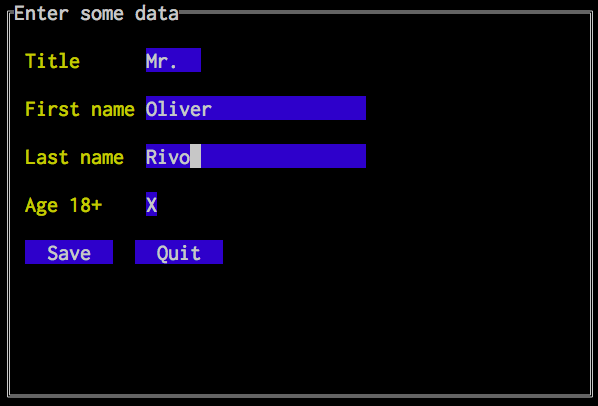
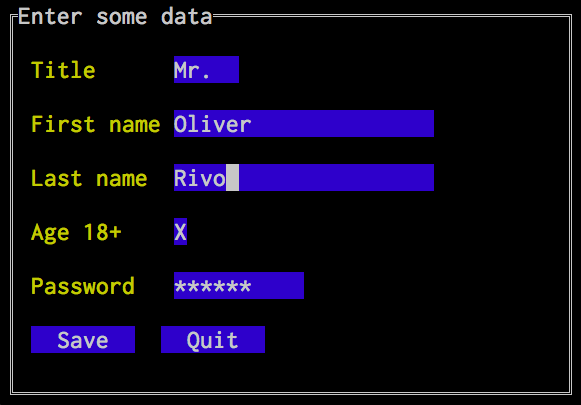
Added masking to InputField, password field to form. Resolves #7, resolves #8.

Changed region(s): [[0.0, 0.0, 1.0, 1.0], [0.2788, 0.8, 0.4647, 0.8889], [0.2169, 0.1185, 0.4337, 0.2074]]

diff --git a/inputfield.go b/inputfield.go
@@ -3,6 +3,8 @@ package tview
 import (
 	"math"
 	"regexp"
+	"strings"
+	"unicode/utf8"
 
 	"github.com/gdamore/tcell"
 	runewidth "github.com/mattn/go-runewidth"
@@ -10,6 +12,9 @@ import (
 
 // InputField is a one-line box (three lines if there is a title) where the
 // user can enter text.
+//
+// Use SetMaskCharacter() to hide input from onlookers (e.g. for password
+// input).
 //
 // See https://github.com/rivo/tview/wiki/InputField for an example.
 type InputField struct {
@@ -33,6 +38,10 @@ type InputField struct {
 	// The length of the input area. A value of 0 means extend as much as
 	// possible.
 	fieldLength int
+
+	// A character to mask entered text (useful for password fields). A value of 0
+	// disables masking.
+	maskCharacter rune
 
 	// An optional function which may reject the last character that was entered.
 	accept func(text string, ch rune) bool
@@ -116,6 +125,13 @@ func (i *InputField) SetFieldLength(length int) *InputField {
 	return i
 }
 
+// SetMaskCharacter sets a character that masks user input on a screen. A value
+// of 0 disables masking.
+func (i *InputField) SetMaskCharacter(mask rune) *InputField {
+	i.maskCharacter = mask
+	return i
+}
+
 // SetAcceptanceFunc sets a handler which may reject the last character that was
 // entered (by returning false).
 //
@@ -180,11 +196,15 @@ func (i *InputField) Draw(screen tcell.Screen) {
 	}
 
 	// Draw entered text.
+	text := i.text
+	if i.maskCharacter > 0 {
+		text = strings.Repeat(string(i.maskCharacter), utf8.RuneCountInString(i.text))
+	}
 	fieldLength-- // We need one cell for the cursor.
 	if fieldLength < runewidth.StringWidth(i.text) {
-		Print(screen, i.text, x, y, fieldLength, AlignRight, i.fieldTextColor)
+		Print(screen, text, x, y, fieldLength, AlignRight, i.fieldTextColor)
 	} else {
-		Print(screen, i.text, x, y, fieldLength, AlignLeft, i.fieldTextColor)
+		Print(screen, text, x, y, fieldLength, AlignLeft, i.fieldTextColor)
 	}
 
 	// Set cursor.

diff --git a/form.go b/form.go
@@ -138,7 +138,27 @@ func (f *Form) AddInputField(label, value string, fieldLength int, accept func(t
 		SetLabel(label).
 		SetText(value).
 		SetFieldLength(fieldLength).
-		SetAcceptanceFunc(accept))
+		SetAcceptanceFunc(accept).
+		SetChangedFunc(changed))
+	return f
+}
+
+// AddPasswordField adds a password field to the form. This is similar to an
+// input field except that the user's input not shown. Instead, a "mask"
+// character is displayed. The password field has a label, an optional initial
+// value, a field length (a value of 0 extends it as far as possible), and an
+// (optional) callback function which is invoked when the input field's text has
+// changed.
+func (f *Form) AddPasswordField(label, value string, fieldLength int, mask rune, changed func(text string)) *Form {
+	if mask == 0 {
+		mask = '*'
+	}
+	f.items = append(f.items, NewInputField().
+		SetLabel(label).
+		SetText(value).
+		SetFieldLength(fieldLength).
+		SetMaskCharacter(mask).
+		SetChangedFunc(changed))
 	return f
 }
 

diff --git a/demos/form/main.go b/demos/form/main.go
@@ -12,6 +12,7 @@ func main() {
 		AddInputField("First name", "", 20, nil, nil).
 		AddInputField("Last name", "", 20, nil, nil).
 		AddCheckbox("Age 18+", false, nil).
+		AddPasswordField("Password", "", 10, '*', nil).
 		AddButton("Save", nil).
 		AddButton("Quit", func() {
 			app.Stop()
